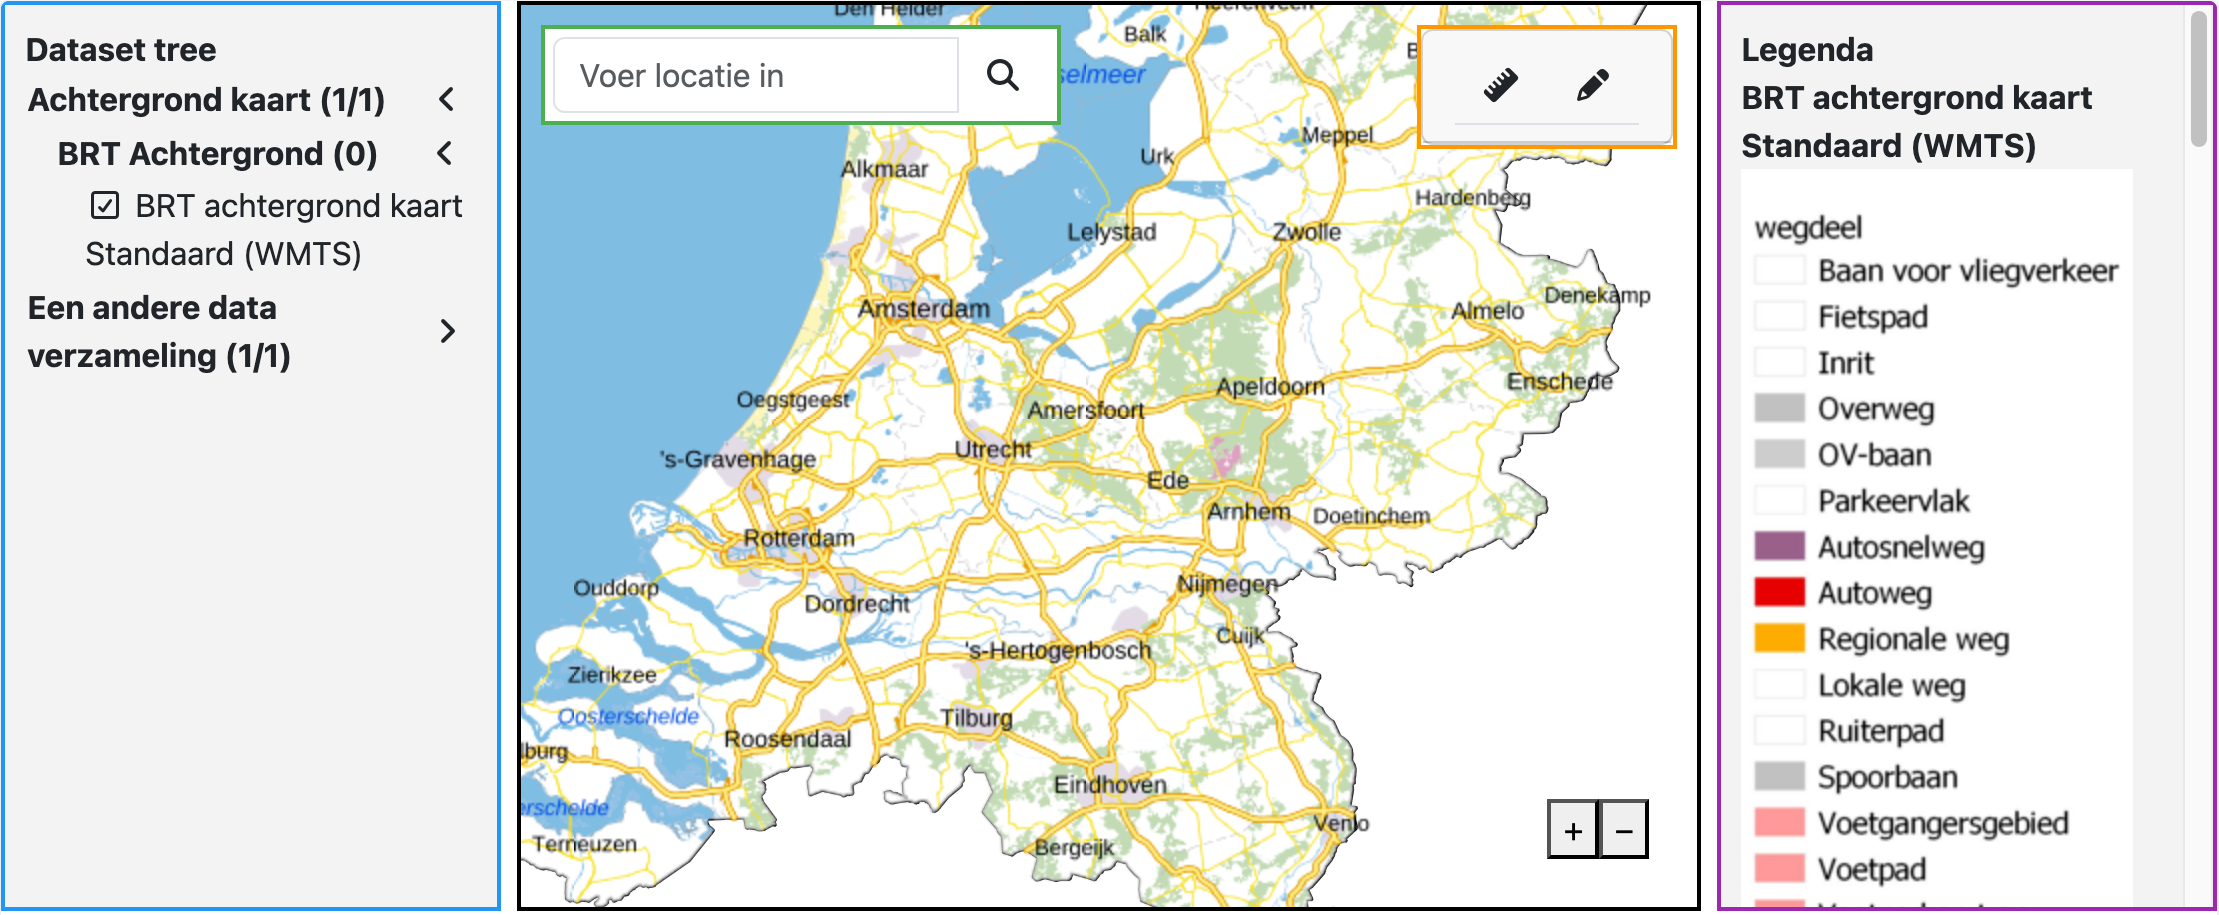
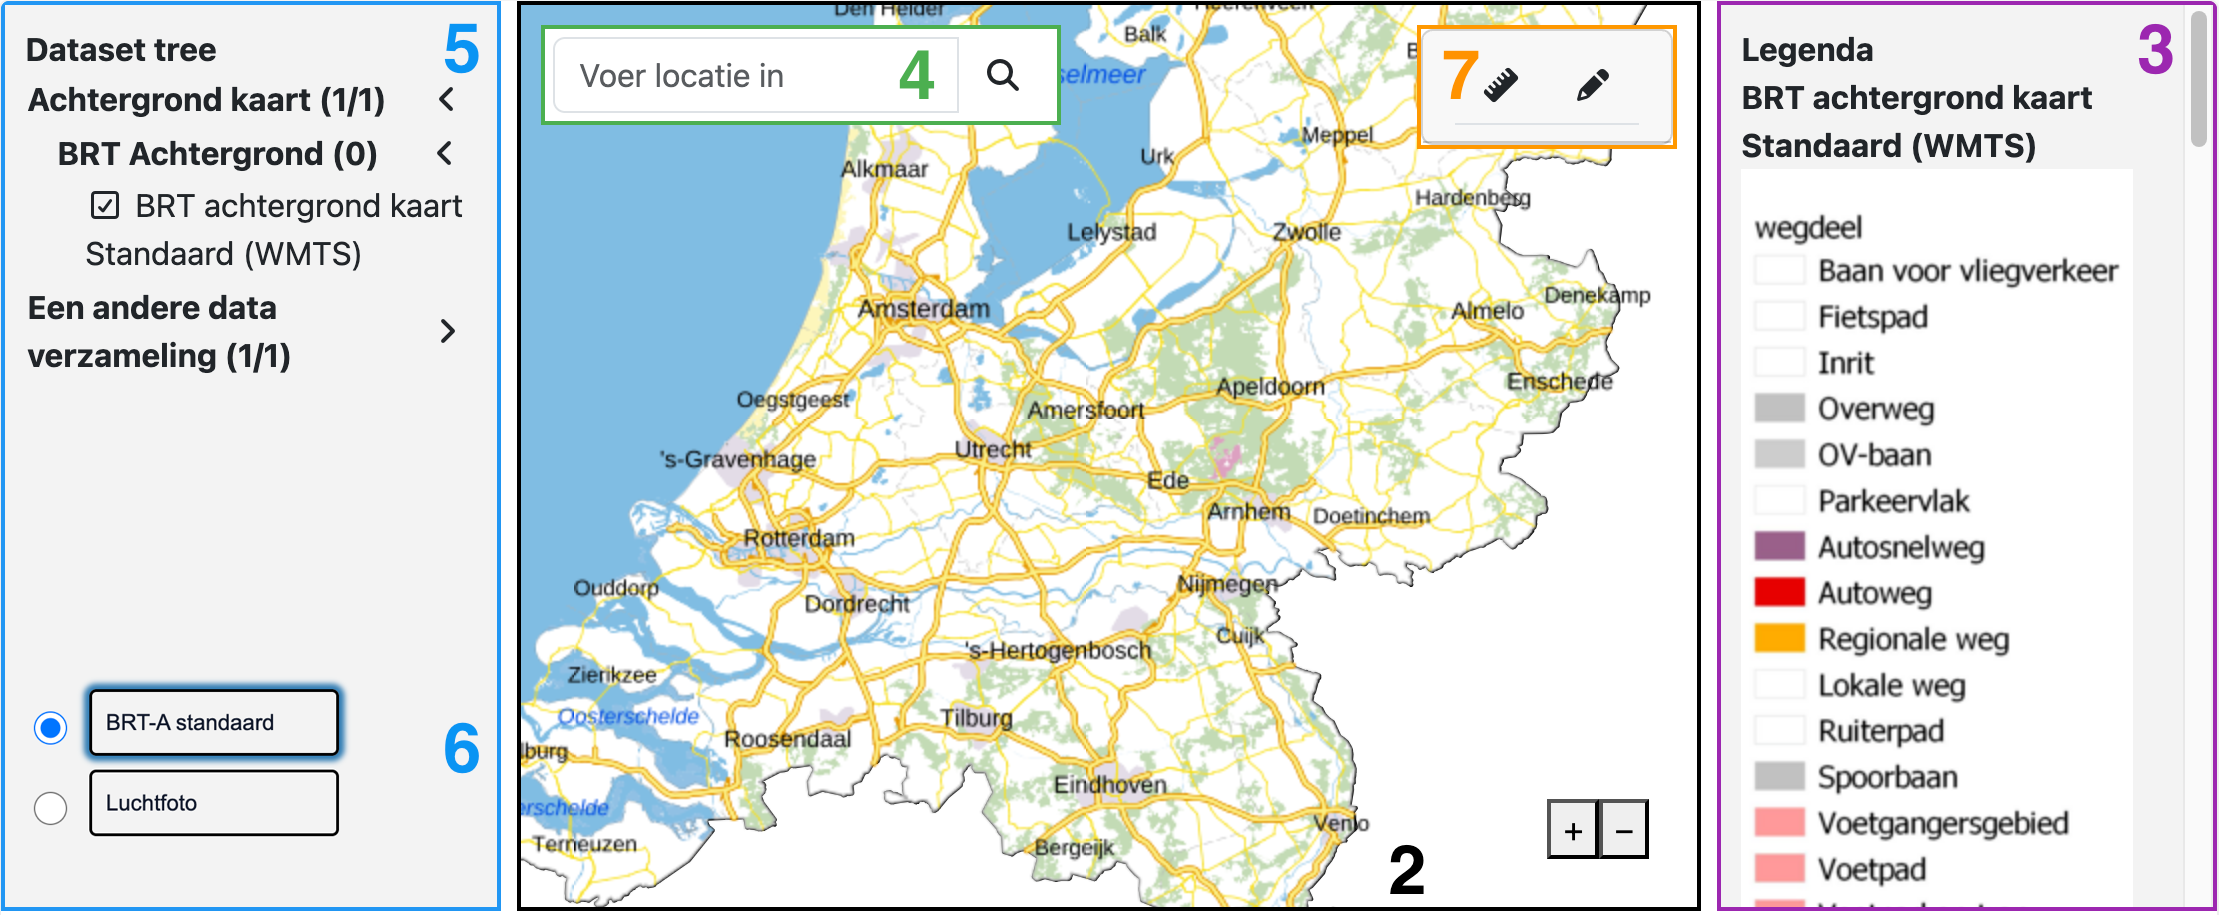
Grootste deel feedback verwerkt, plaatje bijgewerkt met nummers

diff --git a/projects/ggc-home/src/app/quickstart/quickstart.component.html b/projects/ggc-home/src/app/quickstart/quickstart.component.html
@@ -69,28 +69,26 @@
   @if (currentStep === 1) {
     <h2 class="nl-heading nl-heading--level-4 ggc-heading">Inleiding</h2>
     <p class="nl-paragraph ggc-paragraph">
-      We beginnen met het toevoegen van een kaartcomponent. Het koppelen van
-      andere componenten met de kaart gaat eenvoudig, want de componenten zijn
-      <i>Plug & Play</i>. Dit betekent dat de componenten samenwerken, zonder
-      dat daar extra code voor nodig is. Door bijvoorbeeld ook de zoekcomponent
-      toe te voegen, wordt een gekozen locatie automatisch op de kaart getoond.
-      En de legendacomponent toont automatisch de legenda van de zichtbare
-      kaartlagen.
+      In deze quick start leggen we stap-voor-stap uit hoe je de Generieke Geo
+      Componenten toevoegt aan je applicatie. Voor iedere functionaliteit laten
+      we zien hoe je dit toevoegt aan je applicatie. Het koppelen van de
+      componenten gaat eenvoudig, want alle componenten zijn <i>Plug & Play</i>.
+      Met andere woorden, de componenten werken automatisch met elkaar samen.
     </p>
     <p class="nl-paragraph ggc-paragraph">
-      De weergave van een kaart kan aangepast worden door:
+      We leggen de functionaliteiten in deze volgorde uit:
     </p>
-    <ul class="ggc-paragraph-list">
-      <li class="nl-paragraph ggc-paragraph">
-        kaartlagen aan of uit te zetten (dataset-tree), of
-      </li>
-      <li class="nl-paragraph ggc-paragraph">
-        kaartlagen te wisselen (dataset-switcher)
-      </li>
-    </ul>
+    <ol class="ggc-paragraph-list">
+      <li class="nl-paragraph ggc-paragraph">Kaart</li>
+      <li class="nl-paragraph ggc-paragraph">Legenda</li>
+      <li class="nl-paragraph ggc-paragraph">Locatie zoeken</li>
+      <li class="nl-paragraph ggc-paragraph">Kaartlagen aan-/uitzetten</li>
+      <li class="nl-paragraph ggc-paragraph">Kaartlagen wisselen</li>
+      <li class="nl-paragraph ggc-paragraph">Toolbar</li>
+    </ol>
     <p class="nl-paragraph ggc-paragraph">
-      Met de toolbar kunnen handige functies aangeboden worden, zoals tekenen of
-      meten op de kaart.
+      Om de voorbeelden eenvoudig te houden, worden de functionaliteiten apart
+      uitgelegd en niet gecombineerd.
     </p>
     <img
       src="assets/quickstart.png"
@@ -101,8 +99,9 @@
     </h2>
     <p class="nl-paragraph ggc-paragraph">
       De Generieke Geo Componenten zijn software componenten die je in een
-      (web-)applicatie kunt gebruiken. Ervaring met de volgende technieken is
-      gewenst:
+      (web-)applicatie kunt gebruiken. Voor het maken van een eenvoudige
+      kaartapplicatie is geen geo-kennis benodigd. Ervaring met de volgende
+      technieken is gewenst:
     </p>
     <ul class="ggc-paragraph-list">
       <li class="nl-paragraph ggc-paragraph">HTML/CSS</li>
@@ -120,8 +119,7 @@
         <span class="fa fa-external-link icon-suffix" aria-hidden="true"></span
       ></a>
       van Angular zelf. De nieuwste versie van de componenten werken met Angular
-      {{ angularVersion }}. Voor het maken van een eenvoudige kaartapplicatie is
-      geen geo-kennis benodigd.
+      {{ angularVersion }}.
     </p>
   }
   @if (currentStep === 2) {
@@ -153,7 +151,7 @@
       Je zou nu al een werkende kaart moeten zien die lijkt op de kaart
       hieronder! (De zoom-knoppen in het voorbeeld hebben een andere styling)
     </p>
-    <div style="height: 300px">
+    <div style="height: 300px; margin: 10px 0">
       <ggc-map [webServices]="webServices"></ggc-map>
     </div>
     <p class="nl-paragraph ggc-paragraph">
@@ -170,12 +168,13 @@
       Legenda tonen met <code>ggc-legend</code>
     </h2>
     <p class="nl-paragraph ggc-paragraph">
-      Voor de legenda is de volgende dependency nodig:
+      De legenda toont de betekenis van kleuren en symbolen op de kaart. Voor de
+      legenda is de volgende dependency nodig:
       <code>npm install @kadaster/ggc-legend</code>
     </p>
     <p class="nl-paragraph ggc-paragraph">
-      Voeg dan de volgende HTML toe. In het voorbeeld hieronder wordt de legenda
-      naast de kaart geplaatst.
+      Voeg daarna de volgende HTML toe. In het voorbeeld hieronder wordt de
+      legenda naast de kaart geplaatst.
     </p>
     <pre><code
       [highlight]="legendHtml"
@@ -194,7 +193,7 @@
       Nu zou de legenda zichtbaar moeten zijn:
     </p>
 
-    <div style="display: flex; height: 300px">
+    <div style="display: flex; height: 300px; margin: 10px 0">
       <div
         style="
           width: 250px;
@@ -225,6 +224,7 @@
       Locatie zoeken met <code>ggc-search-location</code>
     </h2>
     <p class="nl-paragraph ggc-paragraph">
+      Met de zoekbalk kun je een adres, woonplaats of je huidige locatie zoeken.
       Voor de zoekcomponent is de volgende dependency nodig:
       <code>npm install @kadaster/ggc-search-location</code>
     </p>
@@ -251,7 +251,7 @@
       language="html"
     ></code></pre>
     <p class="nl-paragraph ggc-paragraph">
-      Voeg dan de volgende HTML toe. In het voorbeeld hieronder wordt de
+      Voeg daarna de volgende HTML toe. In het voorbeeld hieronder wordt de
       zoekbalk boven de kaart geplaatst.
     </p>
     <pre><code
@@ -275,7 +275,7 @@
     <ggc-search-location
       [searchLocationOptions]="searchLocationOptions"
     ></ggc-search-location>
-    <div style="height: 300px">
+    <div style="height: 300px; margin: 10px 0">
       <ggc-map [webServices]="webServices"></ggc-map>
     </div>
 
@@ -291,7 +291,8 @@
       Kaartlagen aan-/uitzetten met <code>ggc-dataset-tree</code>
     </h2>
     <p class="nl-paragraph ggc-paragraph">
-      Voor de dataset tree component is de volgende dependency nodig:
+      Met de dataset-tree kun je kaartlagen aan-/uitzetten in een lijst met meer
+      niveau's. Voor de dataset-tree component is de volgende dependency nodig:
       <code>npm install @kadaster/ggc-dataset-tree</code>
     </p>
     <p class="nl-paragraph ggc-paragraph">
@@ -308,7 +309,7 @@
           class="fa fa-external-link icon-suffix"
           aria-hidden="true"
         ></span></a
-      >. Deze zijn nodig voor een correcte werking van de dataset tree. Hiervoor
+      >. Deze zijn nodig voor een correcte werking van de dataset-tree. Hiervoor
       kun je de volgende HTML toevoegen aan bijvoorbeeld de
       <code>index.html</code>:
     </p>
@@ -317,27 +318,31 @@
       language="html"
     ></code></pre>
     <p class="nl-paragraph ggc-paragraph">
-      Voeg dan de volgende HTML toe. In het voorbeeld hieronder wordt de dataset
-      tree naast de kaart geplaatst.
+      Voeg daarna de volgende HTML toe. In het voorbeeld hieronder wordt de
+      dataset-tree naast de kaart geplaatst.
     </p>
     <pre><code
       [highlight]="datasetTreeHtml"
       language="html"
     ></code></pre>
     <p class="nl-paragraph ggc-paragraph">
-      Ook hier is de juiste import nodig. Met de <code>themes</code> geef je de
-      configuratie mee voor de dataset tree. De kaartconfiguratie is nu ook
-      aangepast met een aantal lagen die aan- en uitgezet kunnen worden.
+      Ook hier is de juiste import nodig. Om de dataset-tree met de kaart te
+      laten communiceren, moet een <code>datasetTreeConfig</code> toegevoegd
+      worden op de input <code>themes</code>. De layerId's in de
+      <code>datasetTreeConfig</code> moeten overeenkomen met de layerId's uit de
+      <code>webServices</code>. Aan de kaartconfiguratie zijn meerdere
+      kaartlagen toegevoegd, zodat verschillende kaartlagen aan- en uitgezet
+      kunnen worden.
     </p>
     <pre><code
       [highlight]="datasetTreeTypescript"
       language="ts"
     ></code></pre>
     <p class="nl-paragraph ggc-paragraph">
-      Nu staat de dataset tree naast de kaart:
+      Nu staat de dataset-tree naast de kaart:
     </p>
 
-    <div style="display: flex; height: 300px">
+    <div style="display: flex; height: 300px; margin: 10px 0">
       <div
         style="
           width: 250px;
@@ -360,7 +365,7 @@
     <p class="nl-paragraph ggc-paragraph">
       Bekijk de
       <button (click)="goToDatasetVoorbeelden()">
-        voorbeelden van de dataset tree
+        voorbeelden van de dataset-tree
       </button>
       als je meer wilt weten over de verschillende mogelijkheden.
     </p>
@@ -371,7 +376,9 @@
       Kaartlagen wisselen met <code>ggc-dataset-switcher</code>
     </h2>
     <p class="nl-paragraph ggc-paragraph">
-      Voor de dataset switcher component is de volgende dependency nodig:
+      Met de dataset-switcher kun je één of meer kaartlagen tegelijk
+      verwisselen. Voor de dataset-switcher component is de volgende dependency
+      nodig:
       <code>npm install @kadaster/ggc-dataset-tree</code>
     </p>
     <p class="nl-paragraph ggc-paragraph">
@@ -388,7 +395,7 @@
           class="fa fa-external-link icon-suffix"
           aria-hidden="true"
         ></span></a
-      >. Deze zijn nodig voor een correcte werking van de dataset switcher.
+      >. Deze zijn nodig voor een correcte werking van de dataset-switcher.
       Hiervoor kun je de volgende HTML toevoegen aan bijvoorbeeld de
       <code>index.html</code>:
     </p>
@@ -397,32 +404,39 @@
       language="html"
     ></code></pre>
     <p class="nl-paragraph ggc-paragraph">
-      Voeg dan de volgende HTML toe. In het voorbeeld hieronder wordt de dataset
-      switcher naast de kaart geplaatst.
+      Voeg daarna de volgende HTML toe. In het voorbeeld hieronder wordt de
+      dataset-switcher naast de kaart geplaatst.
     </p>
     <pre><code
       [highlight]="datasetSwitcherHtml"
       language="html"
     ></code></pre>
-    <p class="nl-paragraph ggc-paragraph">Voeg dan ook de volgende CSS toe:</p>
+    <p class="nl-paragraph ggc-paragraph">
+      Voeg daarna ook de volgende CSS toe:
+    </p>
     <pre><code
       [highlight]="datasetSwitcherScss"
       language="scss"
     ></code></pre>
     <p class="nl-paragraph ggc-paragraph">
-      Ook hier is de juiste import nodig. Met de <code>themes</code> geef je de
-      configuratie mee voor de dataset switcher. De kaartconfiguratie is nu ook
-      aangepast zodat je kunt wisselen tussen twee kaartlagen.
+      Ook hier is de juiste import nodig. Om de dataset-switcher met de kaart te
+      laten communiceren, moet een <code>datasetSwitcherConfig</code> toegevoegd
+      worden op de input <code>themes</code>. De layerId's in de
+      <code>datasetSwitcherConfig</code> moeten overeenkomen met de layerId's
+      uit de <code>webSevices</code>. Ook moeten de knoppen van de
+      dataset-switcher geconfigureerd worden de input
+      <code>datasetSwitcherButtons</code>. De kaartconfiguratie heeft nu twee
+      kaartlagen, zodat je tussen beide kunt wisselen.
     </p>
     <pre><code
       [highlight]="datasetSwitcherTypescript"
       language="ts"
     ></code></pre>
     <p class="nl-paragraph ggc-paragraph">
-      Nu staat de dataset switcher naast de kaart:
+      Nu staat de dataset-switcher naast de kaart:
     </p>
 
-    <div style="display: flex; height: 300px">
+    <div style="display: flex; height: 300px; margin: 10px 0">
       <div
         style="
           width: 250px;
@@ -433,6 +447,7 @@
       >
         <ggc-dataset-switcher
           [themes]="datasetSwitcherConfig"
+          (events)="logSwitchEvent($event)"
           [datasetSwitcherButtons]="datasetSwitcherButtons"
         ></ggc-dataset-switcher>
       </div>
@@ -445,7 +460,7 @@
     <p class="nl-paragraph ggc-paragraph">
       Bekijk de
       <button (click)="goToDatasetVoorbeelden()">
-        voorbeelden van de dataset switcher
+        voorbeelden van de dataset-switcher
       </button>
       als je meer wilt weten over de verschillende mogelijkheden.
     </p>
@@ -456,7 +471,9 @@
       Toolbar maken met <code>ggc-toolbar</code>
     </h2>
     <p class="nl-paragraph ggc-paragraph">
-      Voor de toolbar is de volgende dependency nodig:
+      De toolbar bevat knoppen met verschillende functies. Bijvoorbeeld tekenen,
+      bewerken of locatie kopiëren. Voor de toolbar is de volgende dependency
+      nodig:
       <code>npm install @kadaster/ggc-toolbar</code>
     </p>
     <p class="nl-paragraph ggc-paragraph">
@@ -473,7 +490,7 @@
           class="fa fa-external-link icon-suffix"
           aria-hidden="true"
         ></span></a
-      >. Deze zijn nodig voor een correcte werking van de dataset switcher.
+      >. Deze zijn nodig voor een correcte werking van de dataset-switcher.
       Hiervoor kun je de volgende HTML toevoegen aan bijvoorbeeld de
       <code>index.html</code>:
     </p>
@@ -482,8 +499,8 @@
       language="html"
     ></code></pre>
     <p class="nl-paragraph ggc-paragraph">
-      Voeg dan de volgende HTML toe. In het voorbeeld hieronder wordt de toolbar
-      boven de kaart geplaatst.
+      Voeg daarna de volgende HTML toe. In het voorbeeld hieronder wordt de
+      toolbar boven de kaart geplaatst.
     </p>
     <pre><code
       [highlight]="toolbarHtml"
@@ -538,7 +555,7 @@
         }
       </ggc-toolbar-item>
     </ggc-toolbar>
-    <div style="height: 300px">
+    <div style="height: 300px; margin: 10px 0">
       <ggc-map [webServices]="webServices"></ggc-map>
     </div>
 

diff --git a/projects/ggc-home/src/app/quickstart/quickstart.component.ts b/projects/ggc-home/src/app/quickstart/quickstart.component.ts
@@ -11,6 +11,7 @@ import {
 } from "@kadaster/ggc-search-location";
 import {
   DatasetSwitcherButton,
+  DatasetSwitcherEvent,
   GgcDatasetSwitcherComponent,
   GgcDatasetTreeComponent,
   Theme
@@ -296,9 +297,7 @@ export class App {
           "layerId": "brt-achtergrondkaart-standaard",
           "title": "Standaard",
           "layerName": "standaard",
-          "visible": true,
-          "zIndex": -10,
-          "minResolution": 0.21
+          "visible": true
         }
       ]
     },
@@ -310,9 +309,7 @@ export class App {
           "layerId": "luchtfoto_actueel_orthohr",
           "title": "Luchtfoto Actueel Ortho 8cm RGB",
           "layerName": "Actueel_orthoHR",
-          "visible": false,
-          "zIndex": -10,
-          "minResolution": 0.0525
+          "visible": false
         }
       ]
     }
@@ -555,9 +552,7 @@ export class App {
           layerId: "brt-achtergrondkaart-standaard",
           title: "Standaard",
           layerName: "standaard",
-          visible: true,
-          zIndex: -10,
-          minResolution: 0.21
+          visible: true
         }
       ]
     },
@@ -569,9 +564,7 @@ export class App {
           layerId: "luchtfoto_actueel_orthohr",
           title: "Luchtfoto Actueel Ortho 8cm RGB",
           layerName: "Actueel_orthoHR",
-          visible: false,
-          zIndex: -10,
-          minResolution: 0.0525
+          visible: false
         }
       ]
     }
@@ -706,5 +699,9 @@ export class App {
       secondH2.focus();
       secondH2.scrollIntoView({ behavior: "smooth" });
     }
+  }
+
+  logSwitchEvent(datasetSwitcherEvent: DatasetSwitcherEvent) {
+    console.log(datasetSwitcherEvent);
   }
 }
